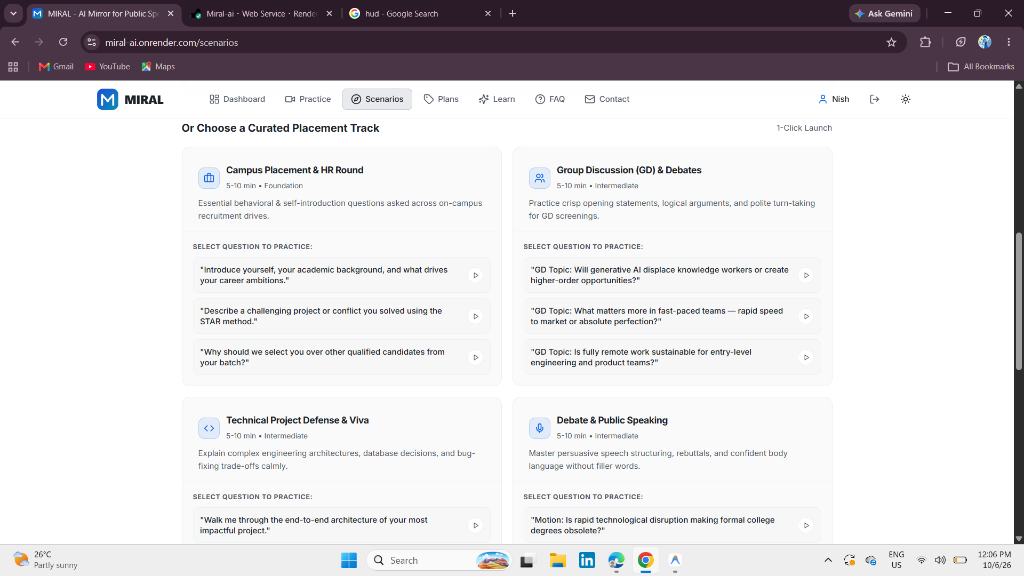
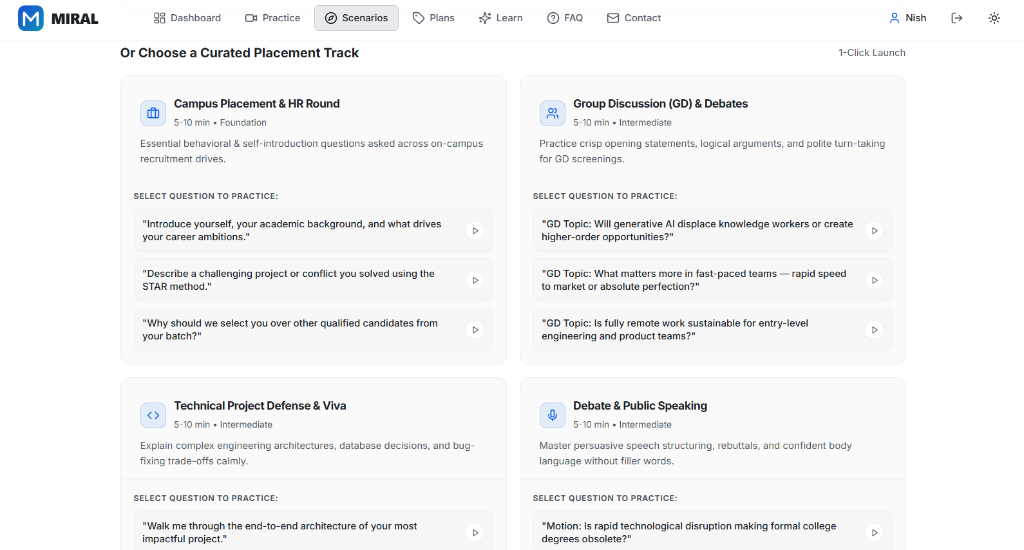
feat: embed fresh clean screenshots for live practice studio and curated placement scenarios

diff --git a/client/src/pages/home.tsx b/client/src/pages/home.tsx
@@ -132,7 +132,7 @@ export default function Home() {
       id: 'practice' as const,
       label: 'Live Practice Studio',
       icon: Video,
-      image: '/images/practice-preview-v2.png',
+      image: '/images/practice-preview-v3.png',
       badge: 'Real-Time In-Browser Feedback',
       heading: 'Live Eye Gaze, Posture & Transcript Analysis',
       description: 'Practice directly on camera. Miral calculates your real-time eye gaze percentage, upright posture stability, speaking tempo (WPM), and live speech transcript with 100% in-browser WebAssembly.'
@@ -141,7 +141,7 @@ export default function Home() {
       id: 'scenarios' as const,
       label: 'Curated Scenarios',
       icon: Compass,
-      image: '/images/scenarios-preview-v2.png',
+      image: '/images/scenarios-preview-v3.png',
       badge: '100+ Pre-Built Prompts',
       heading: '1-Click Launch Across Placement & Speaking Tracks',
       description: 'Choose from Campus HR rounds, Technical Project Defenses, Group Discussions, and MUN Debates. Each track comes with curated questions and benchmark focus targets.'
@@ -150,7 +150,7 @@ export default function Home() {
       id: 'dashboard' as const,
       label: 'Analytics Dashboard',
       icon: BarChart3,
-      image: '/images/dashboard-preview-v2.png',
+      image: '/images/dashboard-preview-v3.png',
       badge: 'Personalized Scorecard',
       heading: 'Comparative Analytics: Baseline vs Current Session',
       description: 'Review your total practice sessions, composite confidence score (0-100), time invested, and comparative improvements across eye contact, posture, and pacing.'
@@ -159,7 +159,7 @@ export default function Home() {
       id: 'trajectory' as const,
       label: 'Session Trajectory Curve',
       icon: TrendingUp,
-      image: '/images/trajectory-preview-v2.png',
+      image: '/images/trajectory-preview-v3.png',
       badge: 'Progress Visualization',
       heading: 'Historical Multi-Metric Improvement Trajectory',
       description: 'Visualize your progress over time with interactive growth curves tracking your eye contact stability and composite confidence across all completed mock sessions.'
